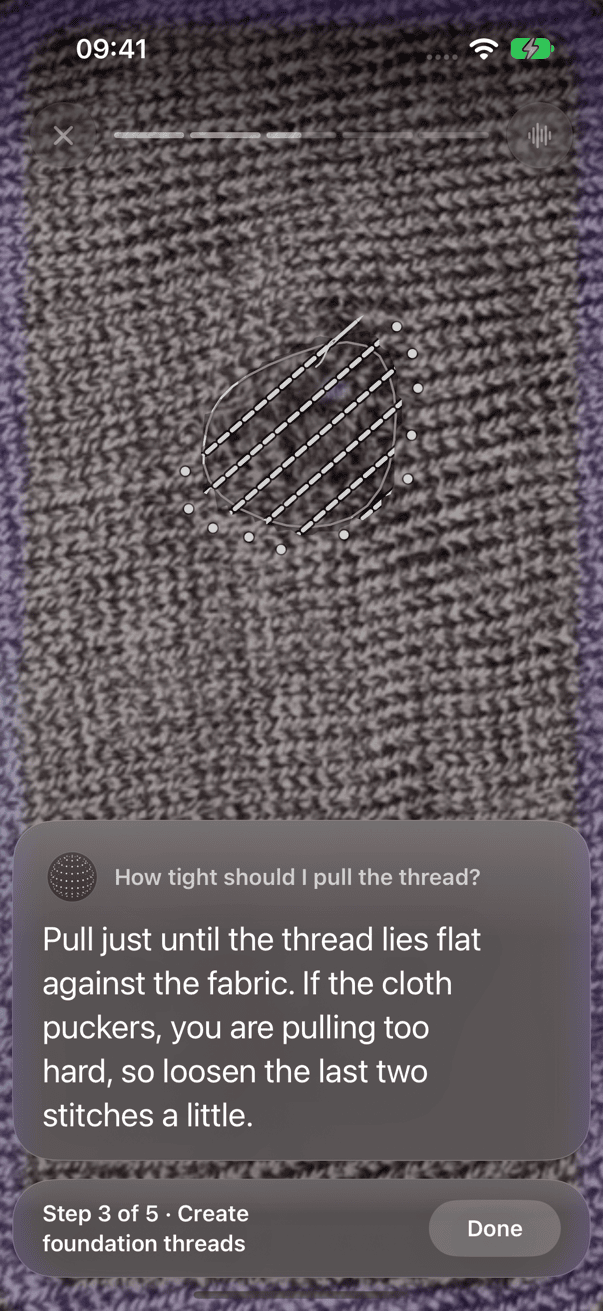
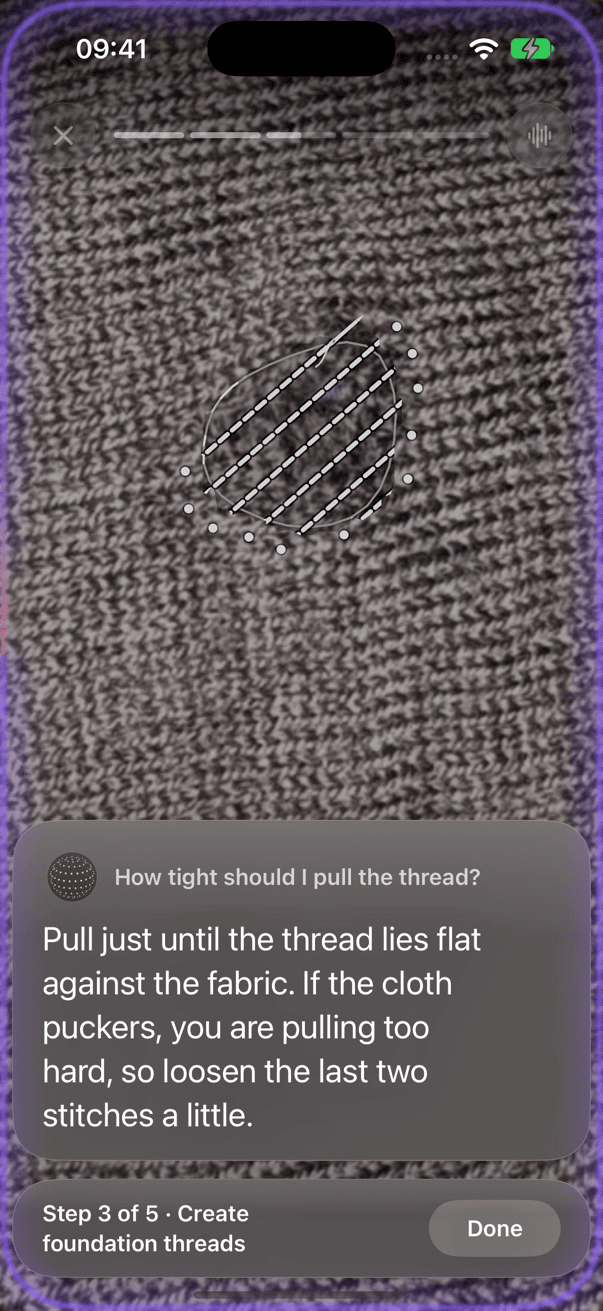
ios: Siri-artiger Randschein als scharfe Leuchtlinie mit weichem Bloom, in allen Zuständen sichtbar

Changed region(s): [[0.0, 0.0, 1.0, 1.0], [0.0896, 0.6407, 0.1493, 0.7018]]

diff --git a/ios/RepairAssistant/DesignSystem/HandsFreeOverlay.swift b/ios/RepairAssistant/DesignSystem/HandsFreeOverlay.swift
@@ -27,11 +27,12 @@ struct HandsFreeGlow: View {
         }
     }
 
-    /// One soft inner stroke: 0.55 opacity (0.35 while the answer card is up), a touch brighter with the mic level.
+    /// Siri-like edge: a crisp luminous line with a soft bloom. Never fades below 0.6 so it stays present in every
+    /// state, a touch brighter with the mic level.
     private var opacity: Double {
         if phase == .off { return 0 }
-        if answerShown { return 0.35 }
-        return 0.55 + (phase == .hearing ? 0.15 * Double(level) : 0)
+        if answerShown { return 0.65 }
+        return 0.85 + (phase == .hearing ? 0.15 * Double(level) : 0)
     }
 
     private func canvas(t: Double) -> some View {
@@ -39,15 +40,21 @@ struct HandsFreeGlow: View {
         return Canvas { ctx, size in
             let rect = CGRect(origin: .zero, size: size)
             let radius = max(8, UIScreen.main.displayCornerRadiusApprox)
-            let width: CGFloat = 16
-            // Stroke centred on the display edge: half of it lies off-screen, so it reads as light bleeding inward.
-            let inset: CGFloat = 0
+            let width: CGFloat = 4
+            // A crisp line just inside the display edge, following its corner radius; the bloom below softens it.
+            let inset: CGFloat = width / 2
             let path = RoundedRectangle(cornerRadius: max(8, radius - inset), style: .continuous).path(in: rect.insetBy(dx: inset, dy: inset))
             let angle = Angle.radians(t * 2 * .pi / 8)   // 8 s per revolution
-            ctx.drawLayer { l in
-                l.opacity = k
+            let shading = GraphicsContext.Shading.conicGradient(Gradient(colors: Self.colors), center: CGPoint(x: size.width / 2, y: size.height / 2), angle: angle)
+            ctx.drawLayer { l in   // soft bloom
+                l.opacity = k * 0.7
                 l.addFilter(.blur(radius: 12))
-                l.stroke(path, with: .conicGradient(Gradient(colors: Self.colors), center: CGPoint(x: size.width / 2, y: size.height / 2), angle: angle), lineWidth: width)
+                l.stroke(path, with: shading, lineWidth: 14)
+            }
+            ctx.drawLayer { l in   // crisp luminous line
+                l.opacity = k
+                l.addFilter(.blur(radius: 1.2))
+                l.stroke(path, with: shading, lineWidth: width)
             }
         }
         .ignoresSafeArea()
@@ -118,7 +125,7 @@ struct HandsFreeCapsule: View {
                 .background(Circle().fill(Color.black.opacity(0.45)).overlay(Circle().strokeBorder(Color.white.opacity(0.25), lineWidth: 0.5)).frame(width: 66, height: 66))
             VStack(alignment: .leading, spacing: 2) {
                 if model.phase == .thinking, !model.caption.isEmpty, model.notice == nil {
-                    Text(model.caption).font(.system(size: 15, weight: .semibold)).foregroundStyle(.white.opacity(0.7)).lineLimit(1)
+                    Text(model.caption).font(.system(size: 15, weight: .semibold)).foregroundStyle(.white.opacity(0.75)).lineLimit(1)
                 }
                 Text(statusText)
                     .font(.body.weight(.medium))
@@ -150,7 +157,7 @@ struct HandsFreeCapsule: View {
                     ThinkingOrb(state: .listening, size: 36, tempo: 0.7).frame(width: 40, height: 40)
                         .background(Circle().fill(Color.black.opacity(0.45)).overlay(Circle().strokeBorder(Color.white.opacity(0.25), lineWidth: 0.5)).frame(width: 34, height: 34))
                     if !model.caption.isEmpty {
-                        Text(model.caption).font(.system(size: 15, weight: .semibold)).foregroundStyle(.white.opacity(0.7)).lineLimit(1)
+                        Text(model.caption).font(.system(size: 15, weight: .semibold)).foregroundStyle(.white.opacity(0.75)).lineLimit(1)
                     }
                     Spacer(minLength: 0)
                 }
